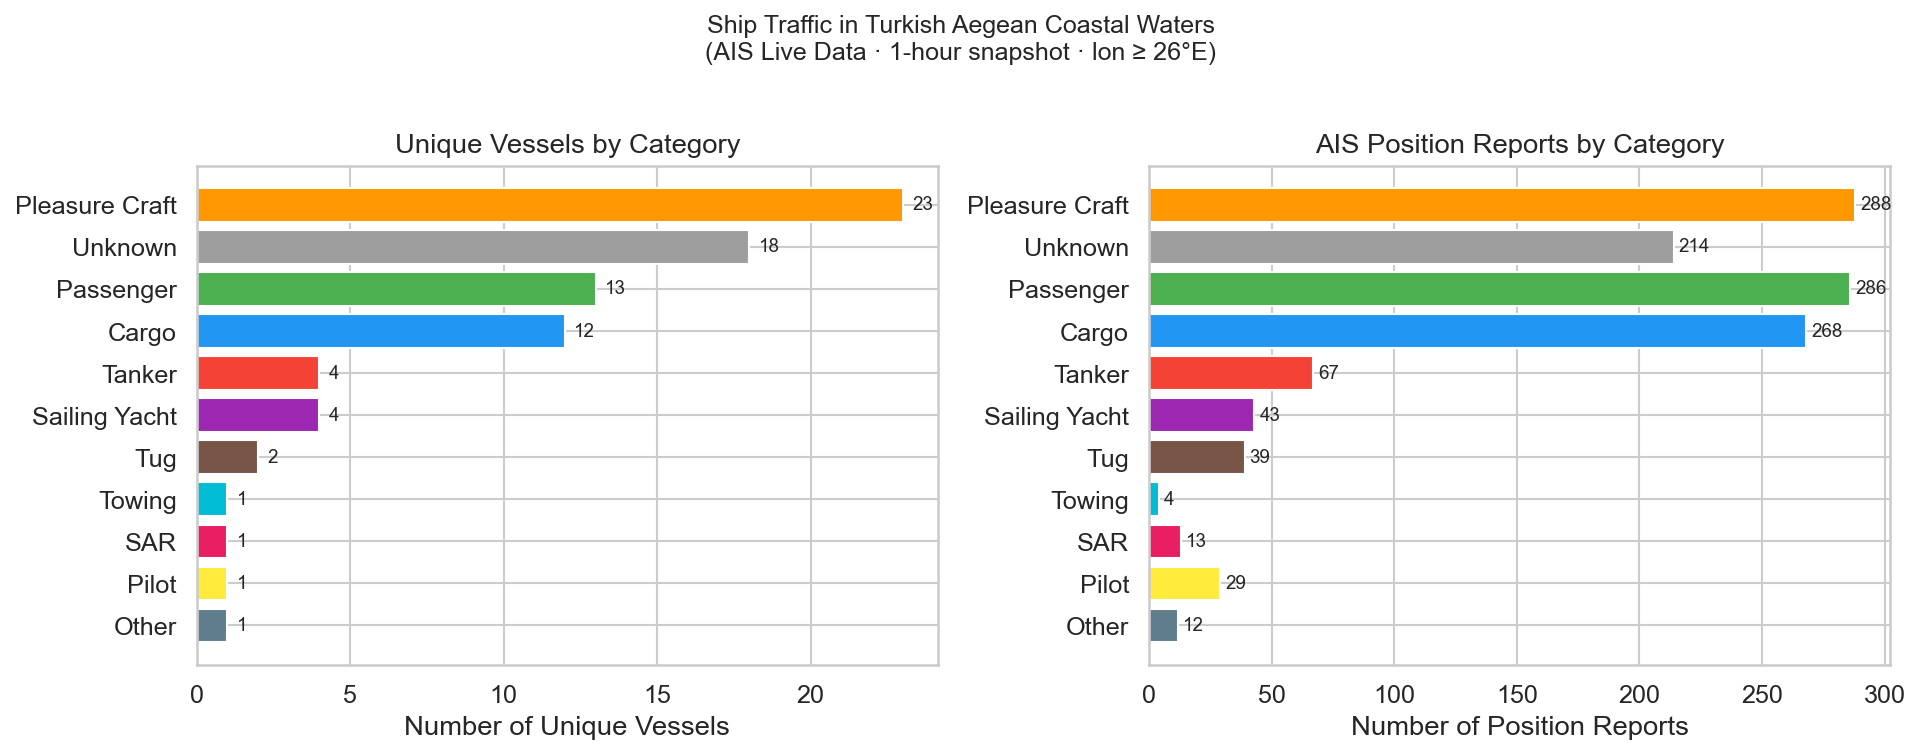
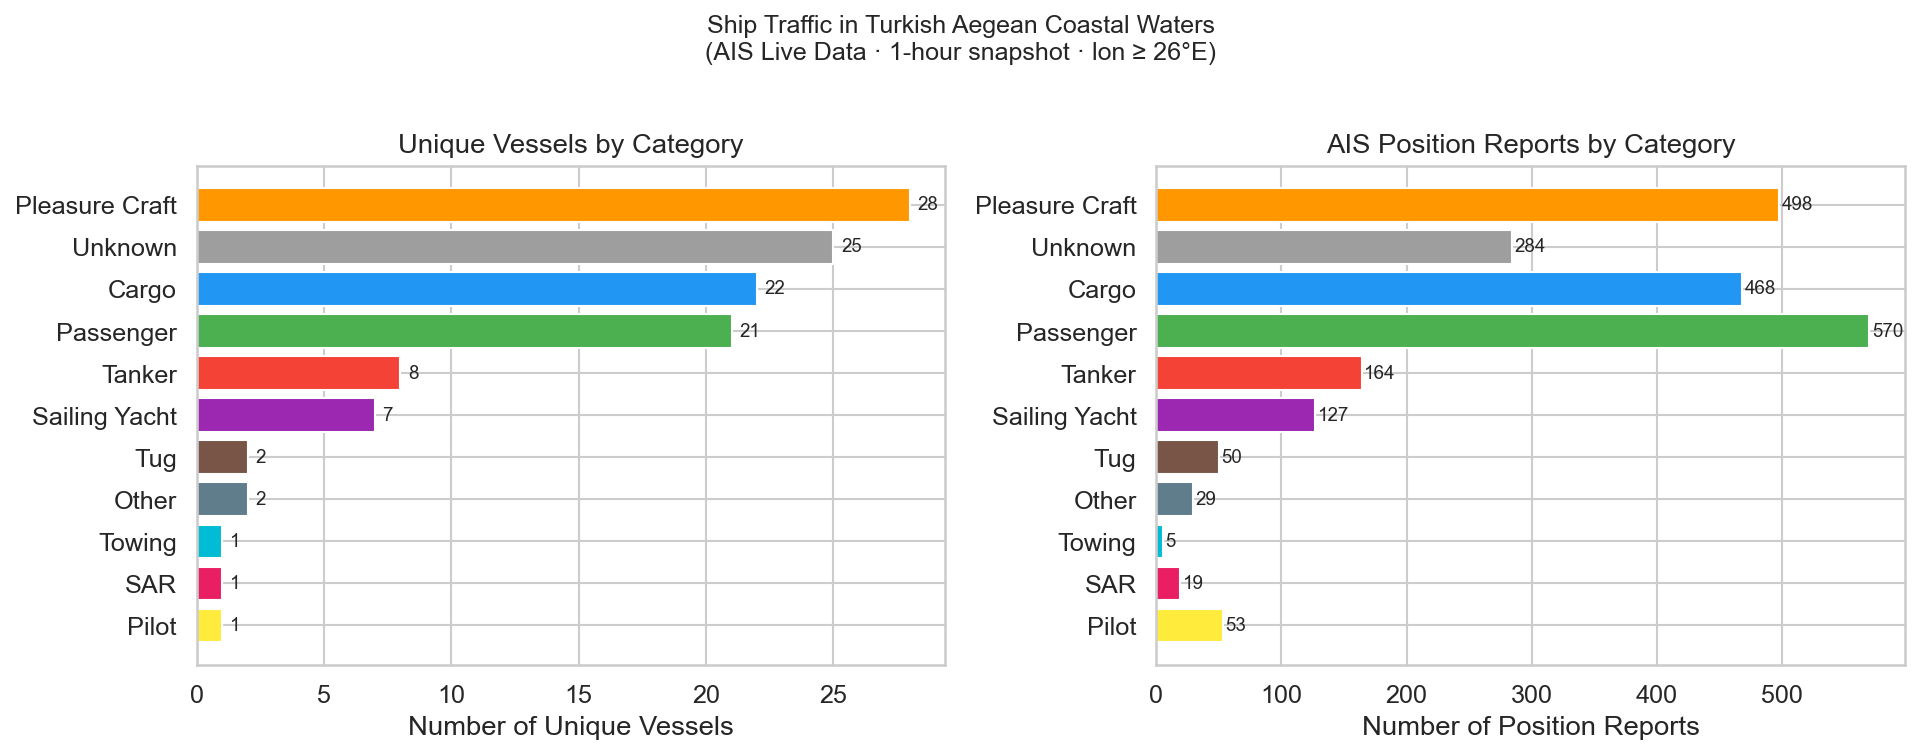
Add morning session, session comparison chart, and temporal metadata
Second collection session (Jun 9 morning, 07:31-08:27 UTC) added,
bringing the combined dataset to 118 unique vessels and 2,267
position reports across two time windows.

analysis.py:
- plot_session_comparison(): grouped bar chart contrasting evening
  (Jun 8) vs morning (Jun 9) vessel counts per category; confirms
  the hypothesis that Passenger ferries are underrepresented in
  the evening snapshot (13 → 21 vessels in the morning)
- Print collection timeline and August replication note at end of run
- Fix traffic density chart title to reference correct study area
  and date range

collector.py: revert bounding box to wider Aegean area so
AISStream delivers sufficient message volume; geographic filtering
stays in cleaner.py where it belongs

README: add per-session table (date, local time, raw message count),
update combined dataset totals, note August 2026 replication plan

diff --git a/src/analysis.py b/src/analysis.py
@@ -210,8 +210,8 @@ def plot_traffic_density(df: pd.DataFrame):
         cbar_kws={"label": "Unique Vessels per 0.25° Cell"},
     )
     ax.set_title(
-        "AIS Traffic Density — Turkish Aegean Coastal Zone\n"
-        "(0.25° × 0.25° grid · unique vessel count)"
+        "AIS Traffic Density — Bodrum–Kos–Rhodes Sea Corridor\n"
+        "(0.25° × 0.25° grid · unique vessel count · Jun 8–9, 2026)"
     )
     ax.set_xlabel("Longitude (°E)")
     ax.set_ylabel("Latitude (°N)")
@@ -290,6 +290,68 @@ def print_key_findings(df: pd.DataFrame):
 
 # ── Ana akış ─────────────────────────────────────────────────────────────────
 
+def plot_session_comparison(df: pd.DataFrame):
+    """
+    Akşam (8 Haz) vs Sabah (9 Haz) oturumu karşılaştırması.
+    Hangi gemi kategorisi hangi saatte daha aktif?
+    """
+    # session_id'den tarih+saat etiketi üret
+    session_labels = {
+        "20260608_195523": "Jun 8 · Evening (19:55–20:55)",
+        "20260609_073132": "Jun 9 · Morning (07:31–08:27)",
+    }
+
+    df2 = df.copy()
+    df2["session_label"] = df2["session_id"].map(session_labels)
+    df2 = df2[df2["session_label"].notna()]
+
+    if df2["session_label"].nunique() < 2:
+        print("  Karşılaştırma için yeterli oturum yok, atlanıyor.")
+        return
+
+    comp = (
+        df2.groupby(["session_label", "ship_category"])["mmsi"]
+        .nunique()
+        .reset_index()
+        .rename(columns={"mmsi": "unique_vessels"})
+    )
+
+    fig, ax = plt.subplots(figsize=(12, 5))
+    categories = comp.groupby("ship_category")["unique_vessels"].sum().sort_values(ascending=False).index
+    x = np.arange(len(categories))
+    width = 0.35
+
+    sessions = comp["session_label"].unique()
+    colors   = ["#1565C0", "#E65100"]
+
+    for i, (sess, color) in enumerate(zip(sessions, colors)):
+        vals = [
+            comp[(comp["session_label"] == sess) &
+                 (comp["ship_category"] == cat)]["unique_vessels"].sum()
+            for cat in categories
+        ]
+        bars = ax.bar(x + i * width, vals, width, label=sess, color=color, alpha=0.85)
+        for bar, val in zip(bars, vals):
+            if val > 0:
+                ax.text(bar.get_x() + bar.get_width() / 2, bar.get_height() + 0.1,
+                        str(val), ha="center", va="bottom", fontsize=8)
+
+    ax.set_xticks(x + width / 2)
+    ax.set_xticklabels(categories, rotation=20, ha="right")
+    ax.set_ylabel("Unique Vessels")
+    ax.set_title(
+        "Evening vs Morning Traffic — Bodrum–Kos–Rhodes Corridor\n"
+        "(Jun 8 evening · Jun 9 morning · unique vessel count)"
+    )
+    ax.legend()
+    plt.tight_layout()
+
+    path = FIGURES_DIR / "04_session_comparison.png"
+    fig.savefig(path, dpi=150, bbox_inches="tight")
+    plt.close()
+    print(f"  Kaydedildi: {path}")
+
+
 def main():
     print("── Veri yükleniyor ─────────────────────────────────")
     df = load_data()
@@ -298,11 +360,15 @@ def main():
     plot_ship_distribution(df)
     plot_speed_distributions(df)
     plot_traffic_density(df)
+    plot_session_comparison(df)
 
     print_key_findings(df)
 
+    print("\n── Toplama zaman çizelgesi ─────────────────────────")
+    print("  Oturum 1 : 8 Haziran 2026 · 22:55–23:55 (TSİ) · akşam")
+    print("  Oturum 2 : 9 Haziran 2026 · 10:31–11:27 (TSİ) · sabah")
+    print("  Gelecek  : Ağustos 2026 — zirve sezon karşılaştırması")
     print(f"\nTüm grafikler: {FIGURES_DIR}/")
-    print("Aşama 3 tamamlandı. Sırada: src/app.py (Streamlit dashboard)")
 
 if __name__ == "__main__":
     main()

diff --git a/src/collector.py b/src/collector.py
@@ -22,14 +22,11 @@ API_KEY = os.getenv("AISSTREAM_API_KEY")
 
 # AISStream format: [min_lat, min_lon], [max_lat, max_lon]
 #
-# KAPSAM: Bodrum–Kos–Rodos deniz koridoru
-# (Türk-Yunan Ege sınır hattındaki açık deniz trafiği)
-#
-# NEDEN BU ALAN?
-# AISStream.io alıcıları büyük ölçüde Yunan adalarında (Kos, Rodos vb.)
-# konumlandığından sinyal bu koridor için güvenilir; Türk anakarası
-# kıyıları (İzmir, Çeşme, Kuşadası, Çanakkale) kapsam dışındadır.
-BOUNDING_BOX = [[36.0, 26.5], [38.0, 29.0]]
+# GENİŞ TOPLAMA ALANI — cleaner.py hassas filtreyi uygular.
+# Dar bounding box AISStream'den yeterli mesaj gelmemesine yol açar;
+# bu nedenle tüm Ege toplanır, analiz koridoru cleaner'da kesilir:
+#   → lat 36.0–38.0°N, lon 26.5–29.0°E (Bodrum–Kos–Rodos)
+BOUNDING_BOX = [[36.0, 22.0], [42.0, 30.0]]
 
 WEBSOCKET_URL = "wss://stream.aisstream.io/v0/stream"
 

diff --git a/README.md b/README.md
@@ -31,10 +31,15 @@ of Bodrum and Marmaris.
 ## Dataset
 
 - **Source:** AISStream.io live WebSocket feed
-- **Collection window:** ~60 minutes, evening hours (19:00–20:00 UTC+3)
-- **Vessels captured:** 80 unique MMSI
-- **Position reports:** 1,263 (after geographic and quality filters)
 - **Message types:** `PositionReport` (Type 1/2/3) + `ShipStaticData` (Type 5/24)
+
+| Session | Date | Local Time (UTC+3) | Raw Messages |
+|---|---|---|---|
+| Evening | 8 June 2026 | 22:55 – 23:55 | 12,059 |
+| Morning | 9 June 2026 | 10:31 – 11:27 | 11,381 |
+
+- **Combined clean dataset:** 118 unique vessels · 2,267 position reports
+- **Planned replication:** August 2026 — peak summer season comparison (June early-summer vs August peak)
 
 ---
 
